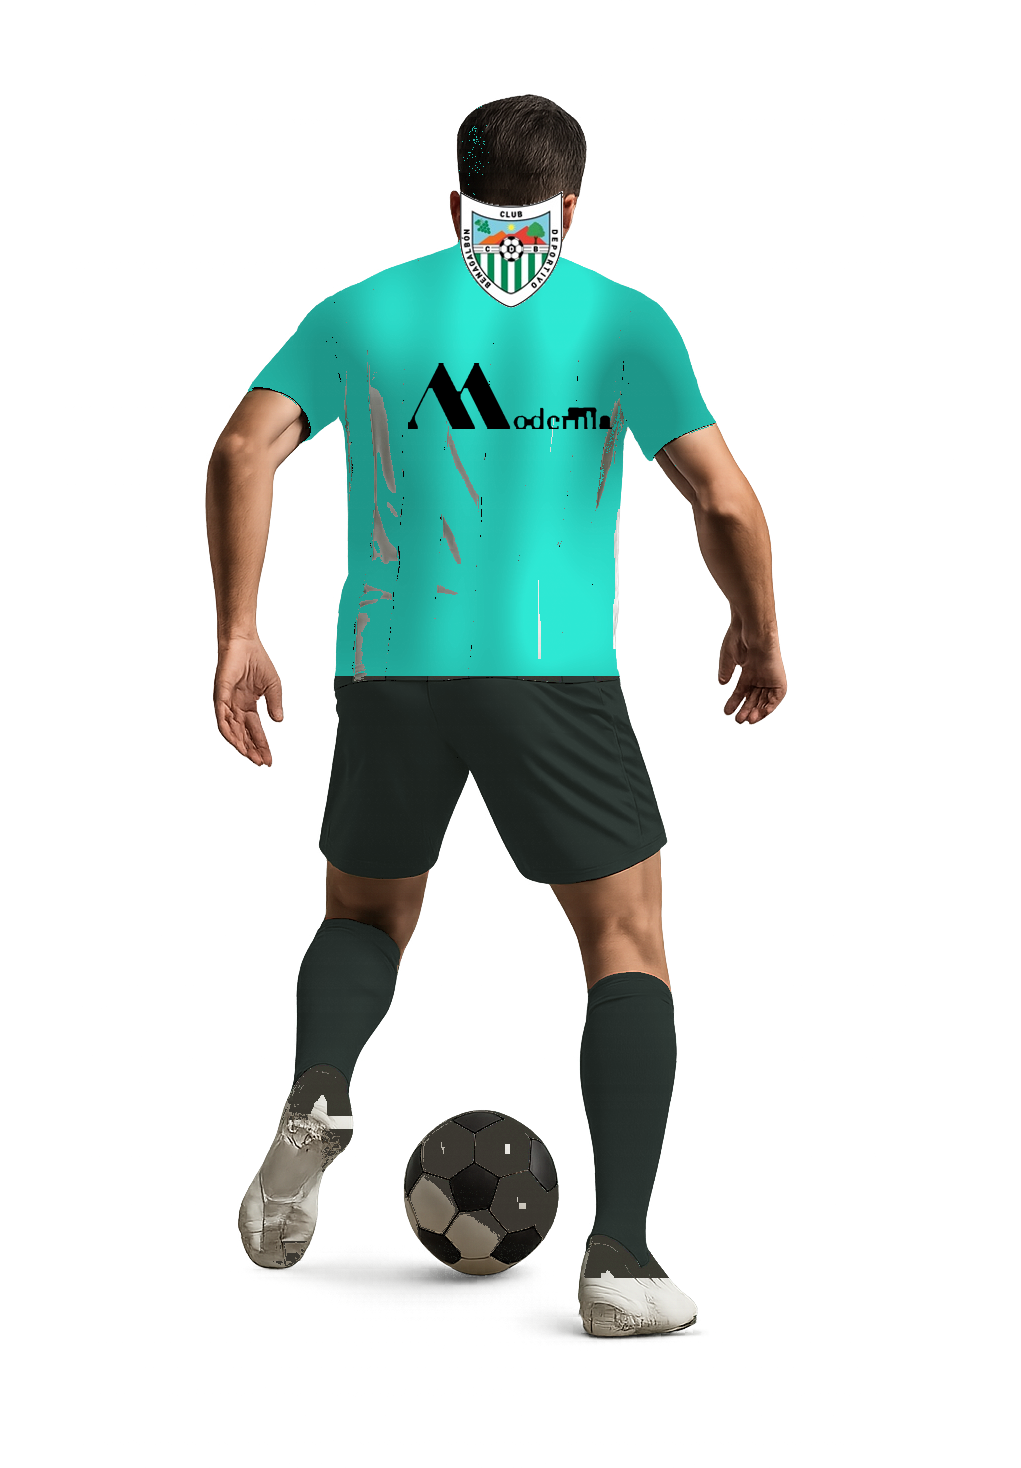
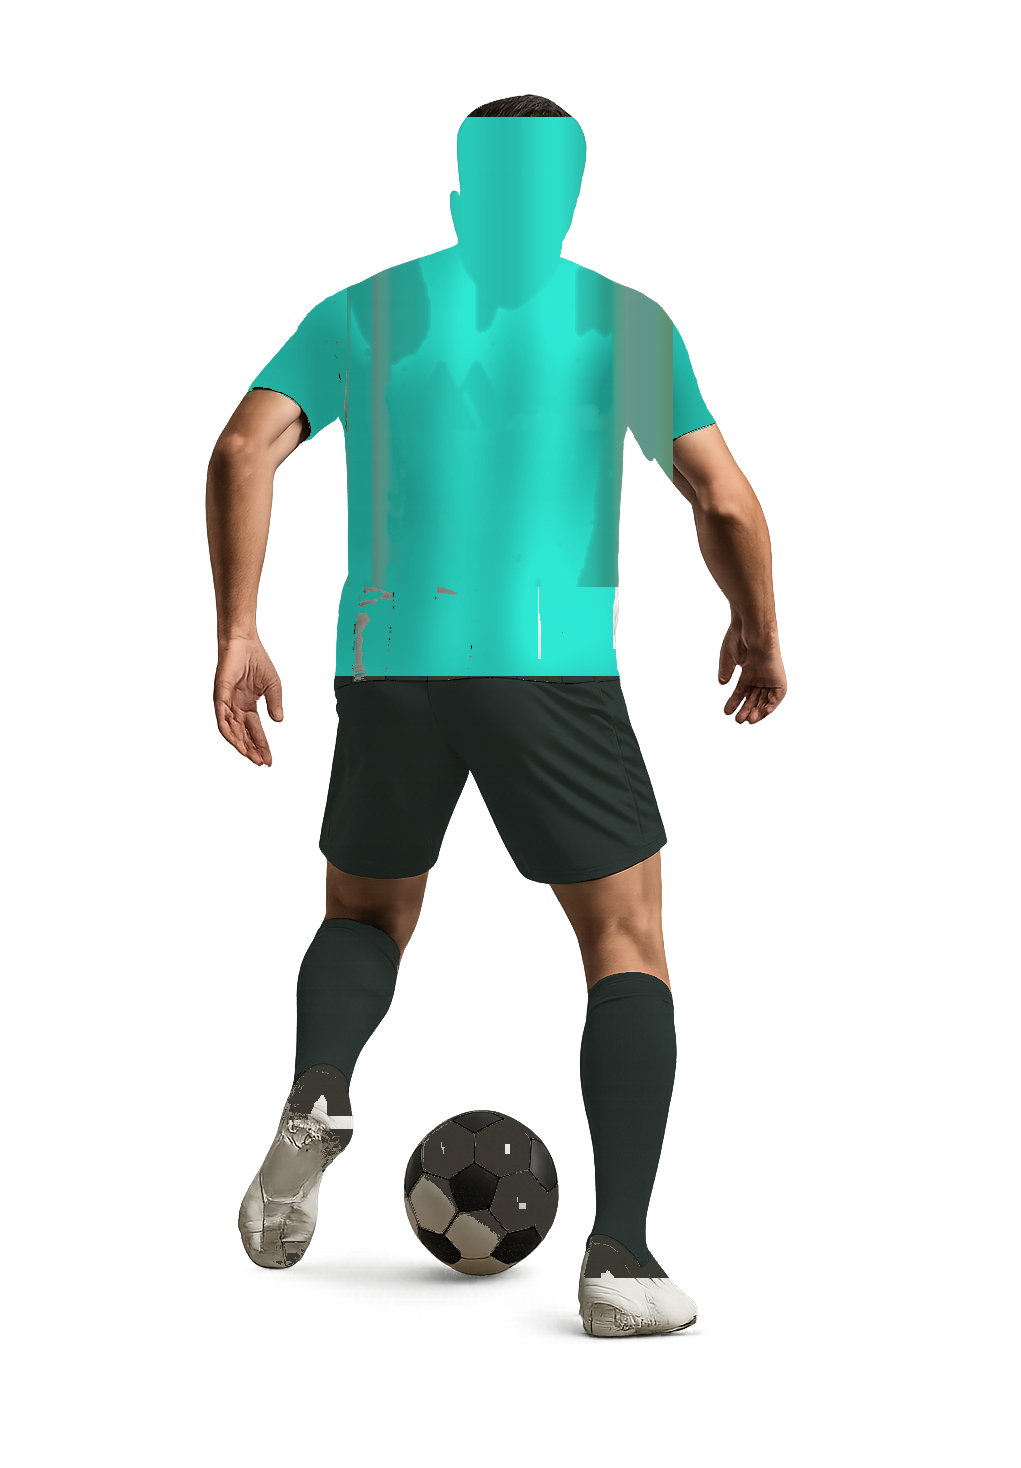
Editor 2D: avatares de espaldas 'conducir' y 'pie' con espalda limpia + reactivadas
Se limpiaron por codigo (deteccion + inpaint por columna) el escudo y el
patrocinador que estaban estampados en la ESPALDA de las imagenes act-esp-
conducir/pie-*.png (8 archivos, 4 colores c/u), donde deberian ir nombre/dorsal.
Ahora la espalda queda con las rayas limpias y se reactivan esas 2 poses en el
selector y la rejilla. 'esp-correr' sigue OCULTA (su parche se nota por el angulo
del cuerpo; pendiente de regenerar).

Changed region(s): [[0.334, 0.0613, 0.668, 0.3985]]

diff --git a/football/templates/football/includes/task_builder/editor_chrome.html b/football/templates/football/includes/task_builder/editor_chrome.html
@@ -240,10 +240,10 @@
   // Jugadores de campo: 12 acciones x 4 colores de equipo.
   var EDC_AV_FIELD = { colors:['amarilla','blanca','turquesa','verde'], acts:[
     ['conduccion','Conducción'],['control','Control'],['defensa','Defensa'],
-    // Poses de espaldas OCULTAS temporalmente: las imágenes (act-esp-conducir/correr/pie-*.png)
-    // llevan el escudo y el patrocinador estampados en la espalda, donde deberían ir nombre y
-    // dorsal. Pendientes de regenerar. Para reactivarlas, añade de nuevo:
-    // ['esp-conducir','Conducir'],['esp-correr','Correr'],['esp-pie','Con el pie'],
+    // Poses de espaldas: sus imágenes llevaban escudo/patrocinador estampados en la espalda; se han
+    // limpiado (rayas limpias) las de 'conducir' y 'pie'. 'esp-correr' sigue OCULTA porque su parche
+    // se nota (cuerpo en ángulo); para reactivarla, añade ['esp-correr','Correr'], aquí y en EDC_AV_POSES.
+    ['esp-conducir','Conducir'],['esp-pie','Con el pie'],
     ['pase','Pase'],['remate','Remate'],['run','Carrera'],
     ['saque','Saque'],['sprint','Sprint'],['tiro','Tiro'] ] };
   // Porteros: 3 poses x 4 colores.
@@ -276,10 +276,9 @@
     grid.appendChild(strip);
   }
   // -------- Selector de POSE + EQUIPACIÓN del avatar (campo y portero) --------
-  // Poses de espaldas ('esp-conducir','esp-correr','esp-pie') OCULTAS temporalmente: las imágenes
-  // tienen el escudo/patrocinador estampados en la espalda (donde van nombre/dorsal). Pendientes de
-  // regenerar. Para reactivarlas, vuelve a añadirlas a esta lista.
-  var EDC_AV_POSES = [['conduccion','Conducción'],['control','Control'],['pase','Pase'],['remate','Remate'],['tiro','Tiro'],['sprint','Sprint'],['run','Carrera'],['defensa','Defensa'],['saque','Saque']];
+  // Poses de espaldas 'esp-conducir' y 'esp-pie' reactivadas (imágenes limpiadas). 'esp-correr' sigue
+  // OCULTA (su parche se nota por el ángulo del cuerpo); para reactivarla añade ['esp-correr','Correr'].
+  var EDC_AV_POSES = [['conduccion','Conducción'],['control','Control'],['pase','Pase'],['remate','Remate'],['tiro','Tiro'],['sprint','Sprint'],['run','Carrera'],['defensa','Defensa'],['esp-conducir','Conducir'],['esp-pie','Con el pie'],['saque','Saque']];
   var EDC_AV_COLORS_F = [['verde','Verde'],['blanca','Blanca'],['amarilla','Amarilla'],['turquesa','Turquesa']];
   var EDC_AV_GK_POSES = [['frente','De frente'],['estirada','Estirada'],['salto','Salto']];
   var EDC_AV_COLORS_GK = [['azul','Azul'],['rojo','Rojo'],['negro','Negro'],['magenta','Magenta']];
